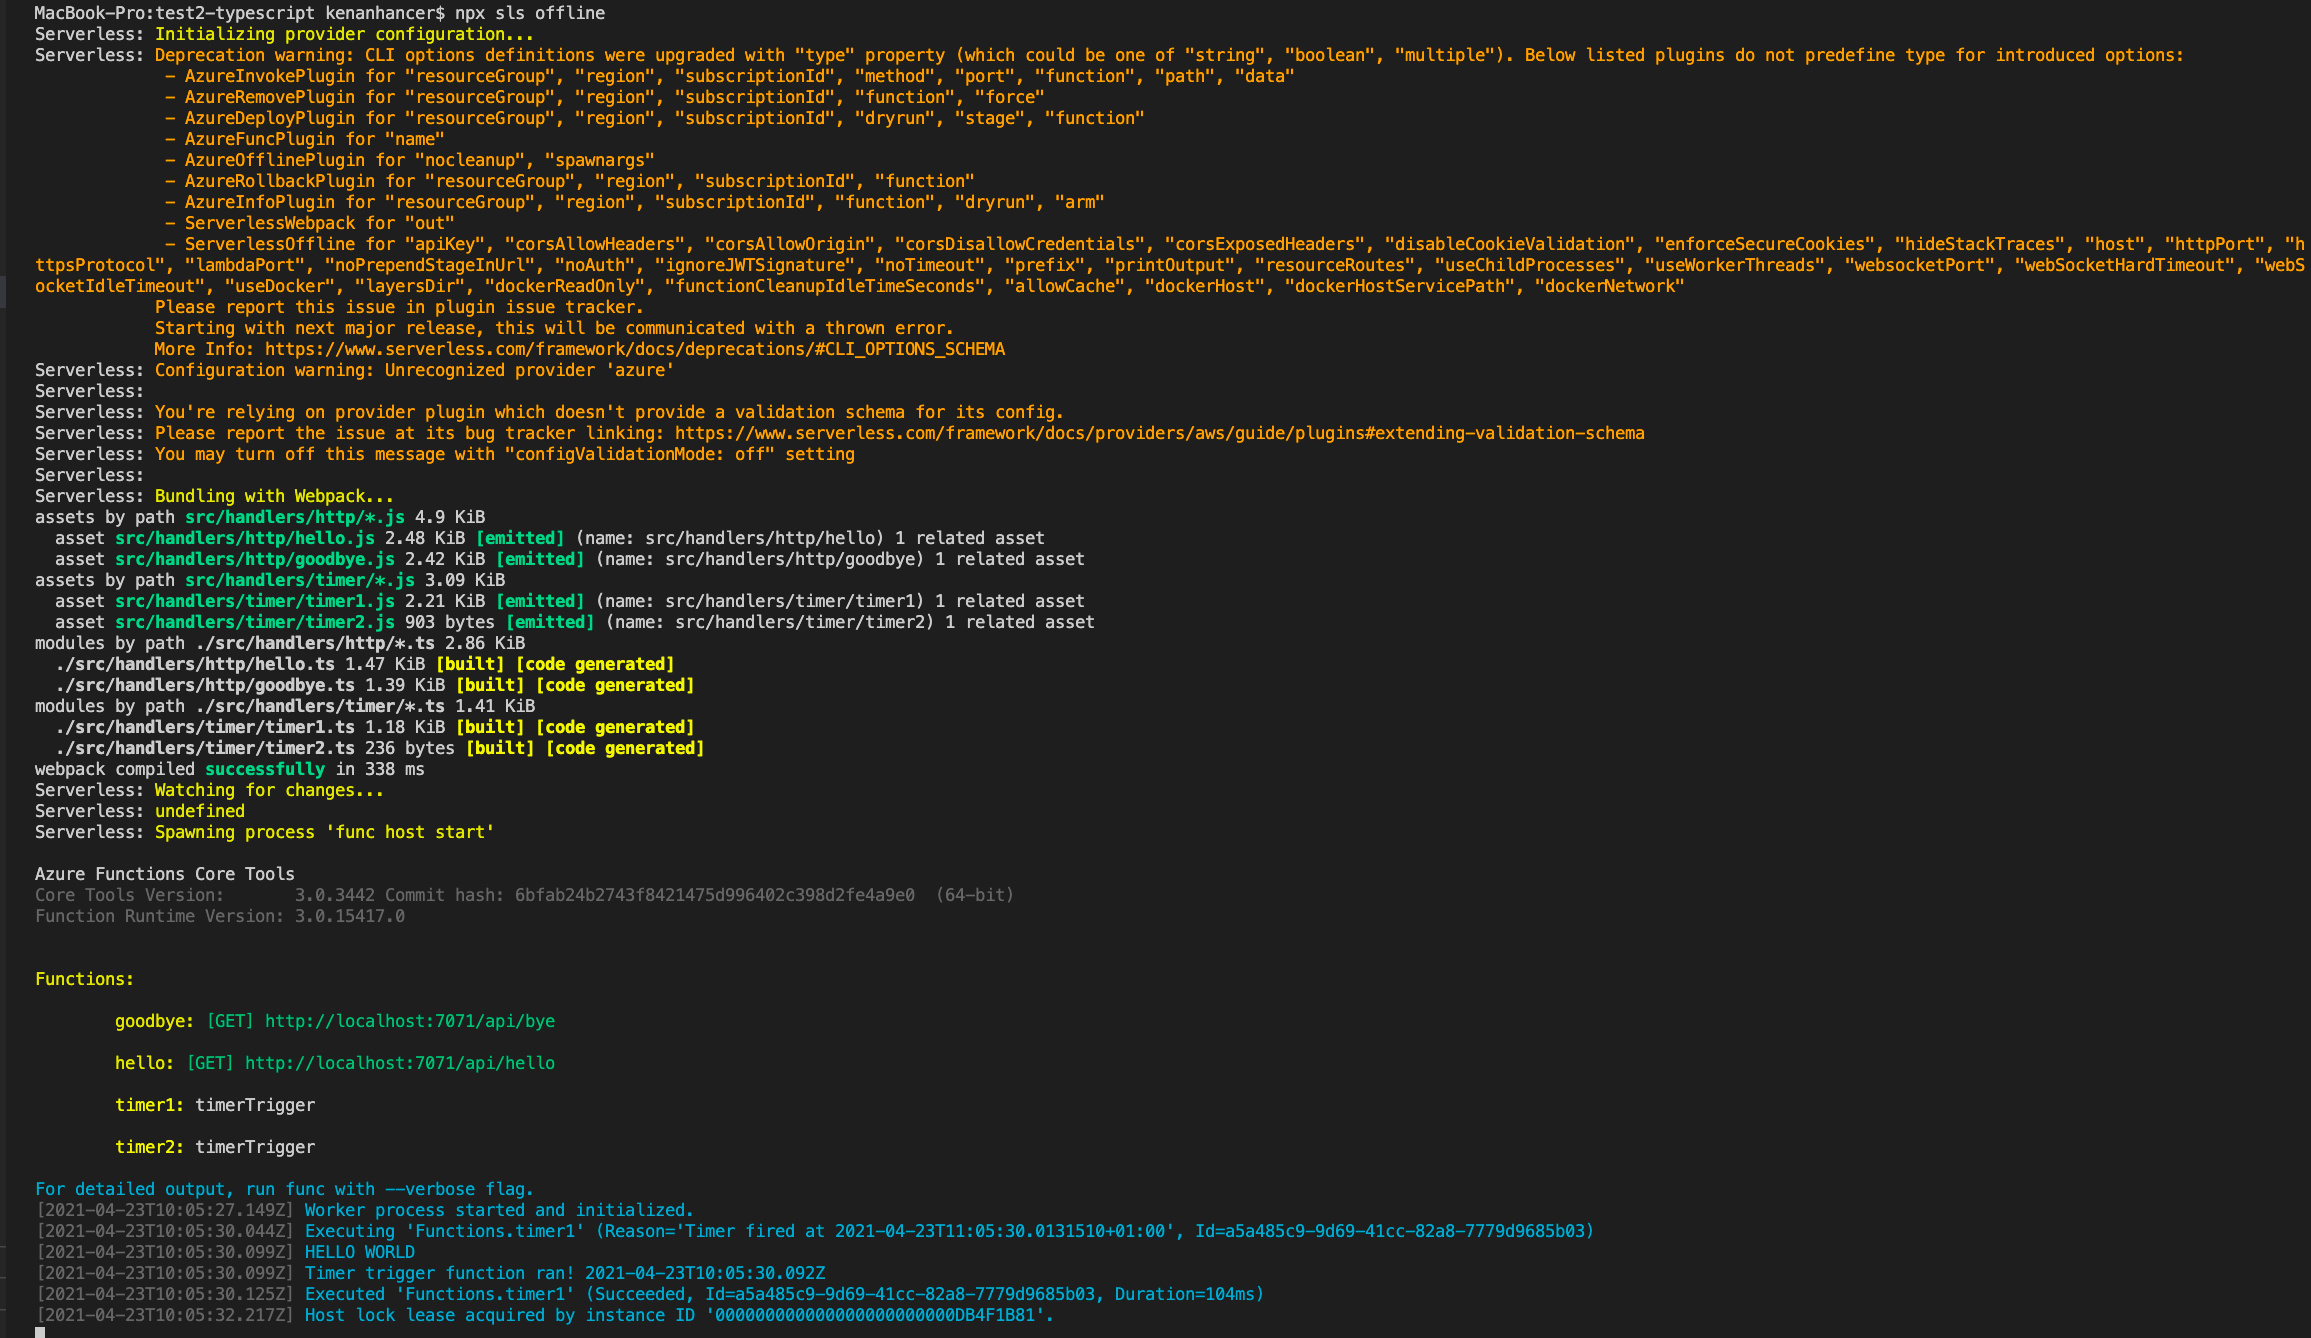
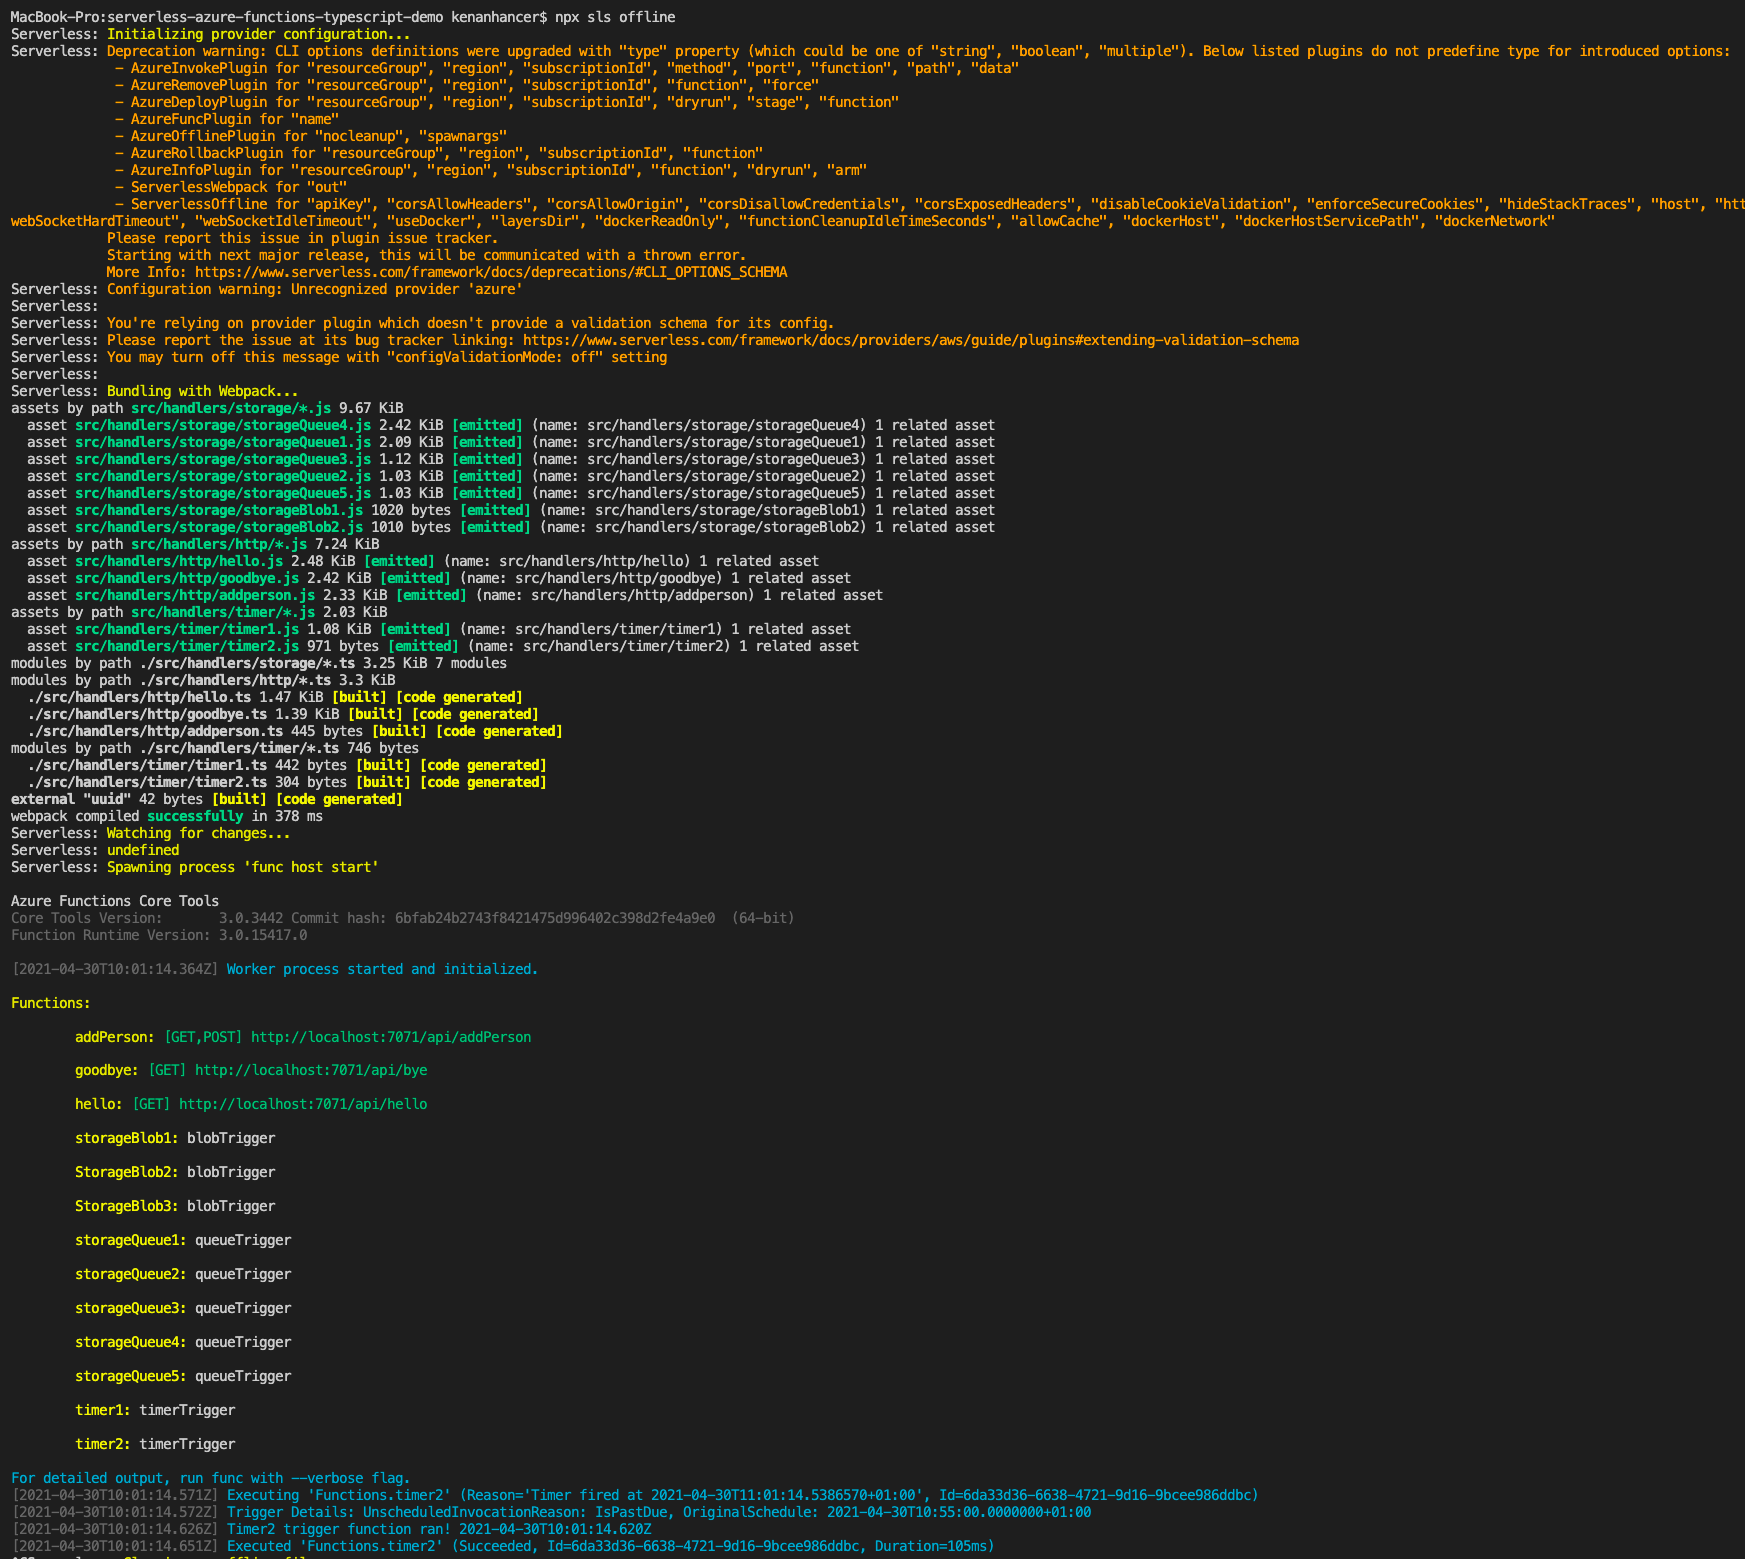
README is updated and new function triggers are added

Changed region(s): [[0.0, 0.0, 1.0, 1.0], [0.9903, 0.1226, 1.0, 0.1532]]

diff --git a/src/handlers/timer/timer1.ts b/src/handlers/timer/timer1.ts
@@ -1,14 +1,14 @@
 import { AzureFunction, Context } from "@azure/functions"
 
-const printMessage: AzureFunction = async function (context: Context, myTimer: any): Promise<void> {
-    var timeStamp = new Date().toISOString();
+const printMessage: AzureFunction = function (context: Context, myTimer: any): void {
+    const timeStamp: string = new Date().toISOString();
 
     context.log(process.env.VARIABLE_FOO);
 
     if (myTimer.isPastDue) {
-        context.log('Timer function is running late!');
+        context.log('Timer1 function is running late!');
     }
-    context.log('Timer trigger function ran!', timeStamp);
+    context.log('Timer1 trigger function ran!', timeStamp);
 };
 
 export { printMessage };

diff --git a/src/handlers/http/addperson.ts b/src/handlers/http/addperson.ts
@@ -1,0 +1,20 @@
+import { AzureFunction, Context, HttpRequest } from "@azure/functions"
+import { v4 as uuidv4 } from 'uuid';
+
+const handle: AzureFunction = function (context: Context, req: HttpRequest): void {
+
+    const name = req.query.name || (req.body && req.body.name) || (`${process.env.FIRST_NAME} ${process.env.LAST_NAME}`);
+
+    context.bindings.personEntity = { PartitionKey: uuidv4(), RowKey: 'FirstName', Name: name };
+
+    // context.bindings.personEntity = [];
+    // context.bindings.personEntity.push({
+    //     PartitionKey: "Test",
+    //     RowKey: i.toString(),
+    //     Name: "Name " + i
+    // });
+
+    context.done();
+};
+
+export { handle };

diff --git a/src/handlers/storage/storageBlob2.ts b/src/handlers/storage/storageBlob2.ts
@@ -1,9 +1,11 @@
 import { AzureFunction, Context } from "@azure/functions"
 
-const handle: AzureFunction = async function (context: Context): Promise<void> {
+const handle: AzureFunction = function (context: Context, item): void {
 
-    context.log('Node.js Queue trigger function processed', context.bindings.myQueueItem);
-    context.bindings.myOutputBlob = context.bindings.myInputBlob;
+    const { bindingData: {blobname} } = context;
+
+    context.log(`Received file: ${blobname}\n`, item.toString('utf8'));
+
     context.done();
 };
 

diff --git a/src/handlers/storage/storageQueue4.ts b/src/handlers/storage/storageQueue4.ts
@@ -1,0 +1,14 @@
+import { AzureFunction, Context } from "@azure/functions"
+import { v4 as uuidv4 } from 'uuid';
+
+const handle: AzureFunction = function (context: Context, myQueueItem: any): void {
+
+    const partitionKey: string = uuidv4();
+    const rowKey: string = `FirstName_${partitionKey}`;
+
+    context.log('Node.js queue trigger function processed work item', myQueueItem);
+    context.bindings.personEntity = { PartitionKey: partitionKey, RowKey: rowKey, Name: myQueueItem };
+    context.done();
+};
+
+export { handle };

diff --git a/src/handlers/storage/storageQueue1.ts b/src/handlers/storage/storageQueue1.ts
@@ -1,9 +1,8 @@
 import { AzureFunction, Context } from "@azure/functions"
 
-const handle: AzureFunction = async function (context: Context): Promise<void> {
+const handle: AzureFunction = async function (context: Context, message: any): Promise<void> {
 
-    context.log('Node.js Queue trigger function processed', context.bindings.myQueueItem);
-    context.bindings.myOutputBlob = context.bindings.myInputBlob;
+    context.log('Node.js Queue trigger function processed', context.bindings.message);
     context.done();
 };
 

diff --git a/src/handlers/storage/storageQueue5.ts b/src/handlers/storage/storageQueue5.ts
@@ -2,8 +2,8 @@ import { AzureFunction, Context } from "@azure/functions"
 
 const handle: AzureFunction = function (context: Context, myQueueItem: any): void {
 
-    context.log('Node.js Queue trigger function processed', context.bindings.myQueueItem);
-    context.bindings.myOutputBlob = context.bindings.myInputBlob;
+    context.log('Node.js queue trigger function processed work item', myQueueItem);
+    context.log('Person entity: ' + context.bindings.personEntity);
     context.done();
 };
 

diff --git a/src/handlers/storage/storageBlob1.ts b/src/handlers/storage/storageBlob1.ts
@@ -1,10 +1,10 @@
 import { AzureFunction, Context } from "@azure/functions"
 
-const handle: AzureFunction = async function (context: Context, item: any): Promise<void> {
+const handle: AzureFunction = function (context: Context, item: any): void {
 
     const { bindingData: {blobname, blobextension} } = context;
 
-    context.log(`Received file: ${blobname}.${blobextension}\n`, item.toString('utf8'));
+    context.log(`Received file: ${blobname}.${blobextension}`);
 
     context.done();
 };

diff --git a/src/handlers/storage/storageQueue3.ts b/src/handlers/storage/storageQueue3.ts
@@ -1,0 +1,12 @@
+import { AzureFunction, Context } from "@azure/functions"
+
+const handle: AzureFunction = function (context: Context, myQueueItem: any): void {
+
+    context.log('Node.js queue trigger function processed work item', myQueueItem);
+
+    const person = context.bindings.personEntities.find(item=> item.PartitionKey === myQueueItem);
+    context.log('Person entity: ' + JSON.stringify(person));
+    context.done();
+};
+
+export { handle };

diff --git a/src/handlers/timer/timer2.ts b/src/handlers/timer/timer2.ts
@@ -1,5 +1,9 @@
-const handle = function (context, timerObj) {
-    console.log('Timer ran', timerObj);
+import { AzureFunction, Context } from "@azure/functions";
+
+const handle: AzureFunction = function (context: Context, timerObj: any): void {
+
+    const timeStamp: string = new Date().toISOString();
+    context.log('Timer2 trigger function ran!', timeStamp);
     context.done();
 };
 

diff --git a/src/handlers/storage/storageTable.ts b/src/handlers/storage/storageTable.ts
@@ -1,0 +1,9 @@
+import { AzureFunction, Context } from "@azure/functions"
+
+const handle: AzureFunction = function (context: Context): void {
+
+    context.log('Node.js queue trigger function processed work item');
+    context.done();
+};
+
+export { handle };

diff --git a/README.md b/README.md
@@ -22,6 +22,8 @@ Refer to [Serverless docs](https://serverless.com/framework/docs/providers/azure
 We need to have `Microsoft Azure Emulator` and `Microsoft Azure Storage Explorer` locally.
 
 Start `Microsoft Azure Emulator` firstly.
+
+Refer to [azurite](https://github.com/azure/azurite)
 ```shell
 npx azurite --silent
 ```
@@ -58,19 +60,27 @@ func host start
 ![Image7](/images/image7.png)
 
 
-This code will start `Microsoft Azure Emulator` firstly then host `Azure Functions` locally.
+If you want to `npm start` directly, you should run `npx azurite` in other terminall firstly, otherwise project will not start. so, you can use the following code.
+
+```shell
+npx azurite --silent & npm start
+```
+
+If you want to just start development locally, then run the following code. This code will start `Microsoft Azure Emulator` firstly then host `Azure Functions` locally.
 
 ```shell
 npm run dev
 ```
 
+![Image19](/images/image19.png)
+
 - If there are more than one project working with `Microsoft Azure Emulator`, than change value of `LocalHttpPort` field in `local.settings.json` file
     - default value is `"LocalHttpPort": 7071`
 - Set value of `AzureWebJobsStorage` field in `local.settings.json` file one of the following values.
-    - default value is `"AzureWebJobsStorage": "UseDevelopmentStorage=true;"`
+    - default value is `"AzureWebJobsStorage": "UseDevelopmentStorage=true;"` but if you need to to connect `Table storage` as well then use second option.
     
     1. `"AzureWebJobsStorage": "UseDevelopmentStorage=true;"` 
-    1. `"AzureWebJobsStorage": "DefaultEndpointsProtocol=https;AccountName=devstoreaccount1;AccountKey=Eby8vdM02xNOcqFlqUwJPLlmEtlCDXJ1OUzFT50uSRZ6IFsuFq2UVErCz4I6tq/K1SZFPTOtr/KBHBeksoGMGw==;BlobEndpoint=https://127.0.0.1:10000/devstoreaccount1;QueueEndpoint=https://127.0.0.1:10001/devstoreaccount1;"`
+    1. `"AzureWebJobsStorage": "DefaultEndpointsProtocol=http;AccountName=devstoreaccount1;AccountKey=Eby8vdM02xNOcqFlqUwJPLlmEtlCDXJ1OUzFT50uSRZ6IFsuFq2UVErCz4I6tq/K1SZFPTOtr/KBHBeksoGMGw==;BlobEndpoint=http://127.0.0.1:10000/devstoreaccount1;QueueEndpoint=http://127.0.0.1:10001/devstoreaccount1;TableEndpoint=http://127.0.0.1:10002/devstoreaccount1;"`
 
 
 
